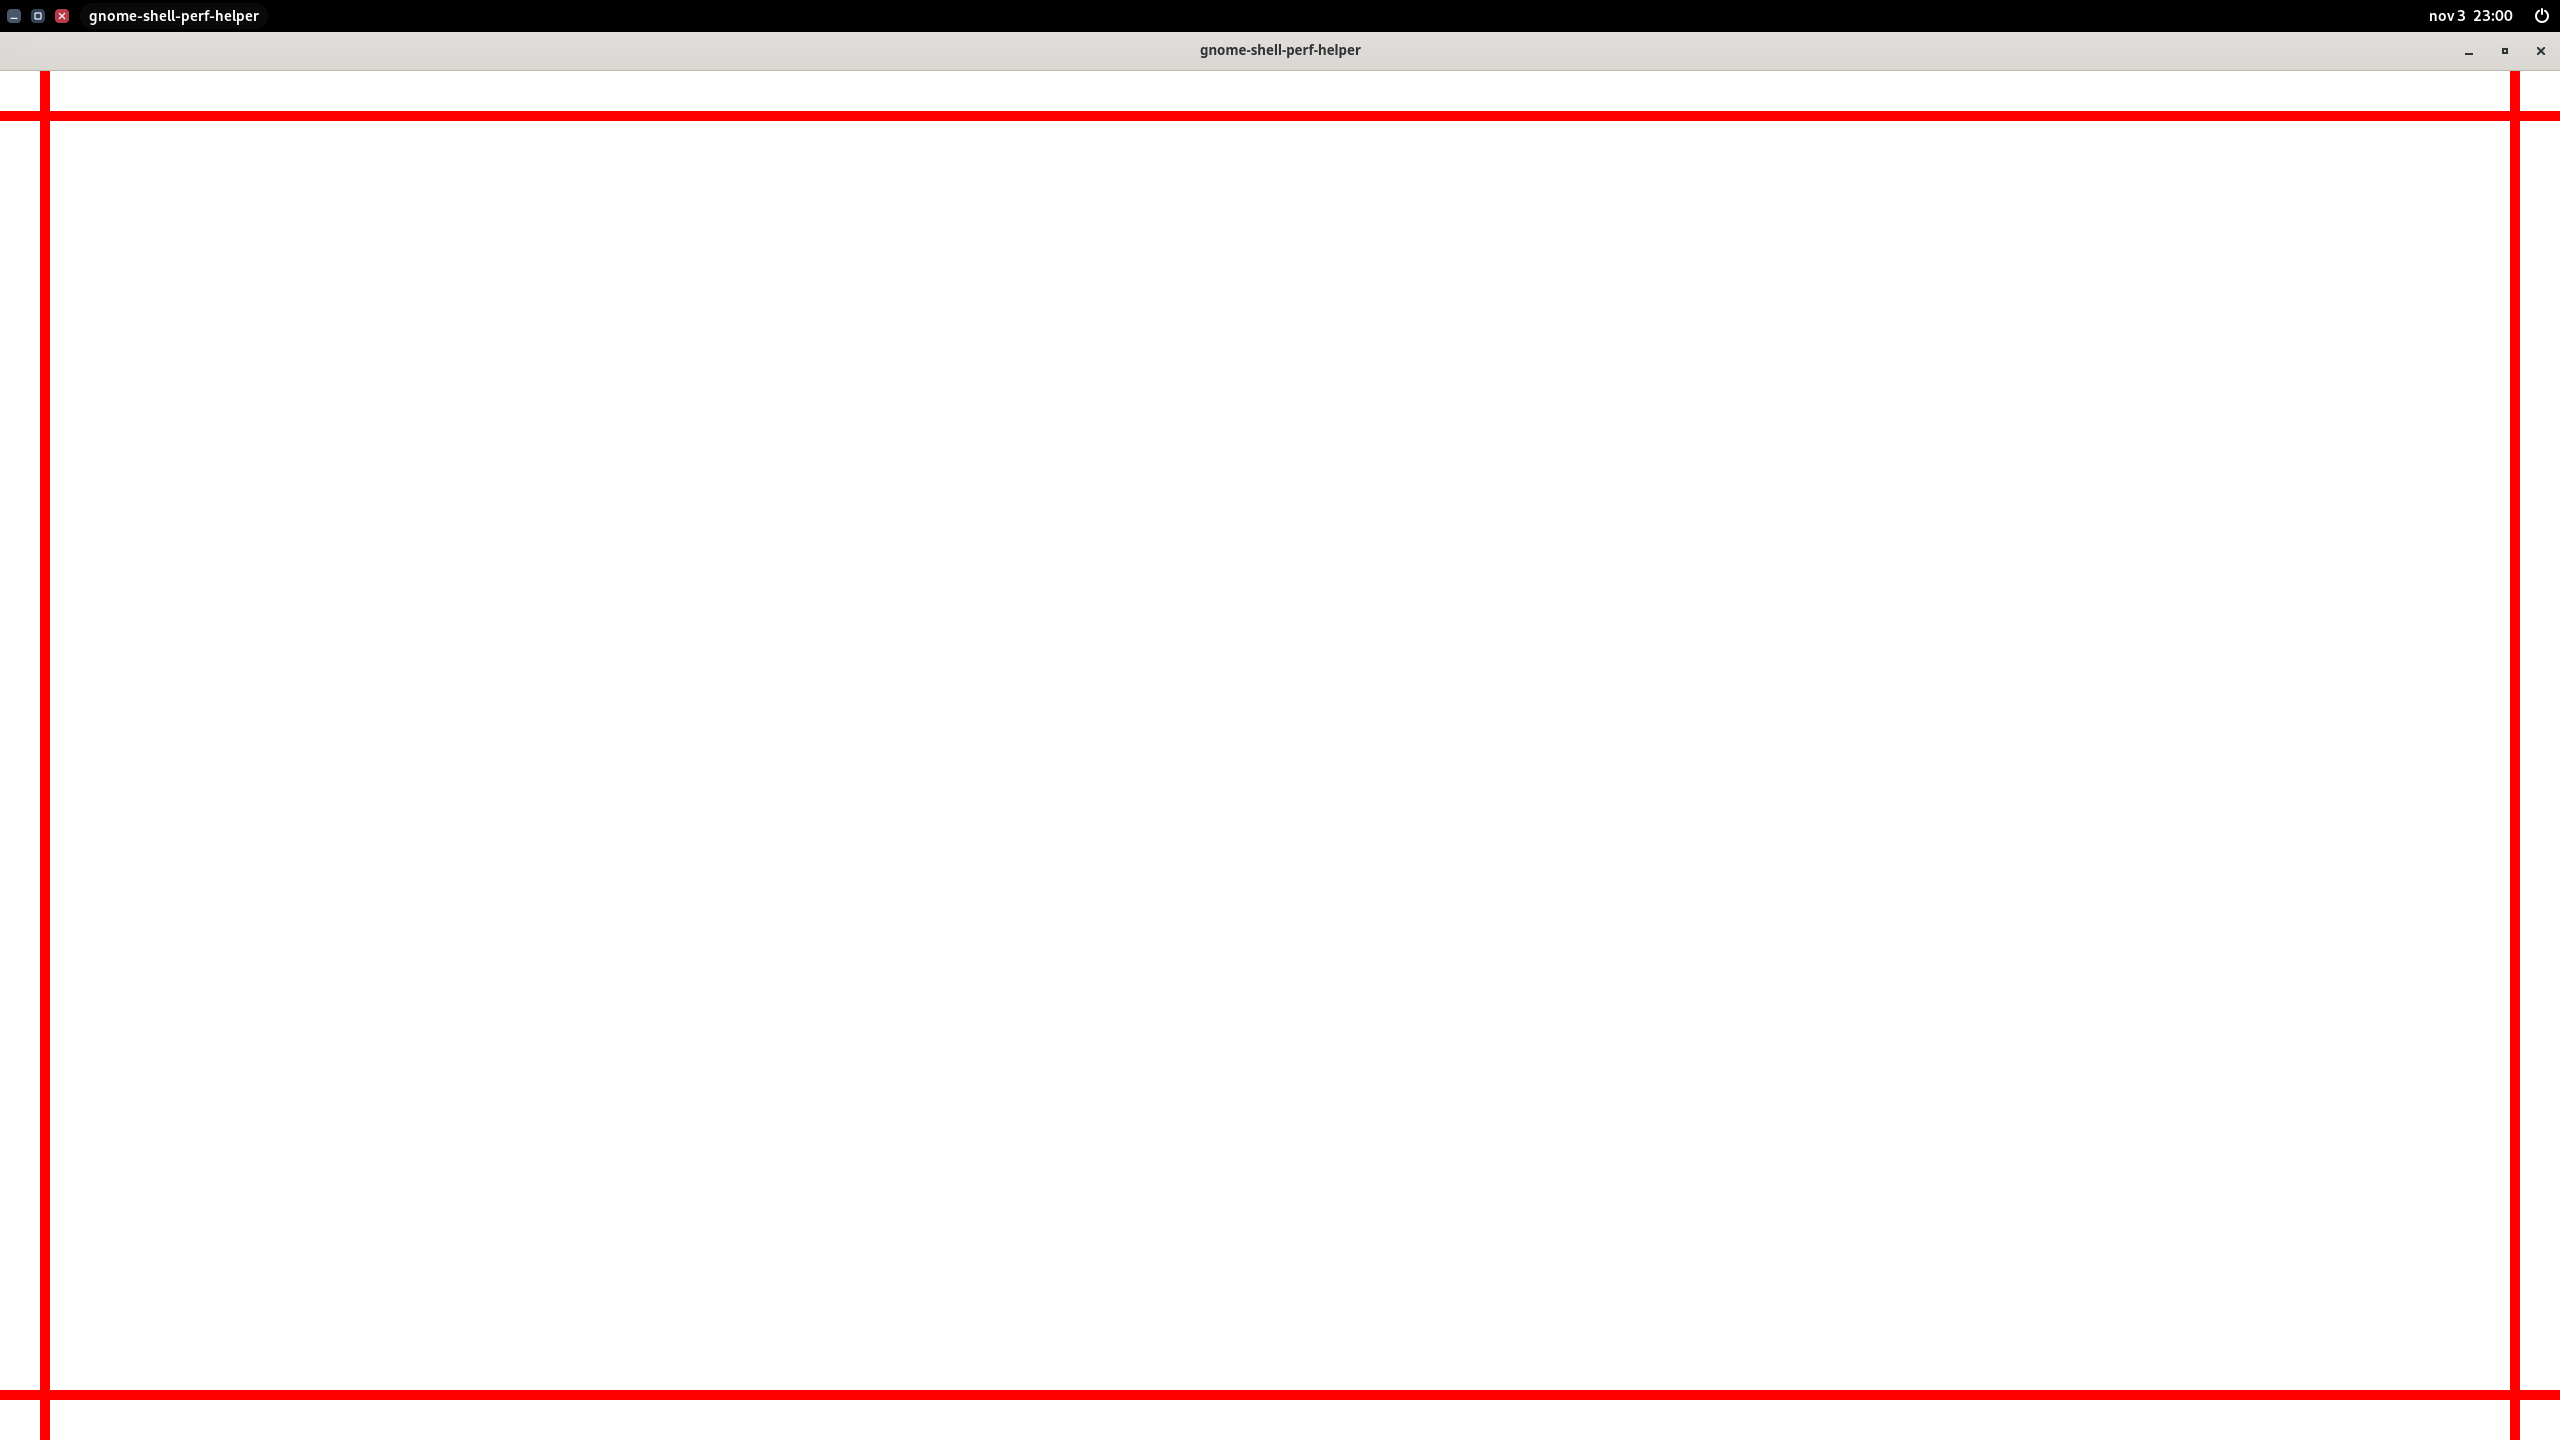
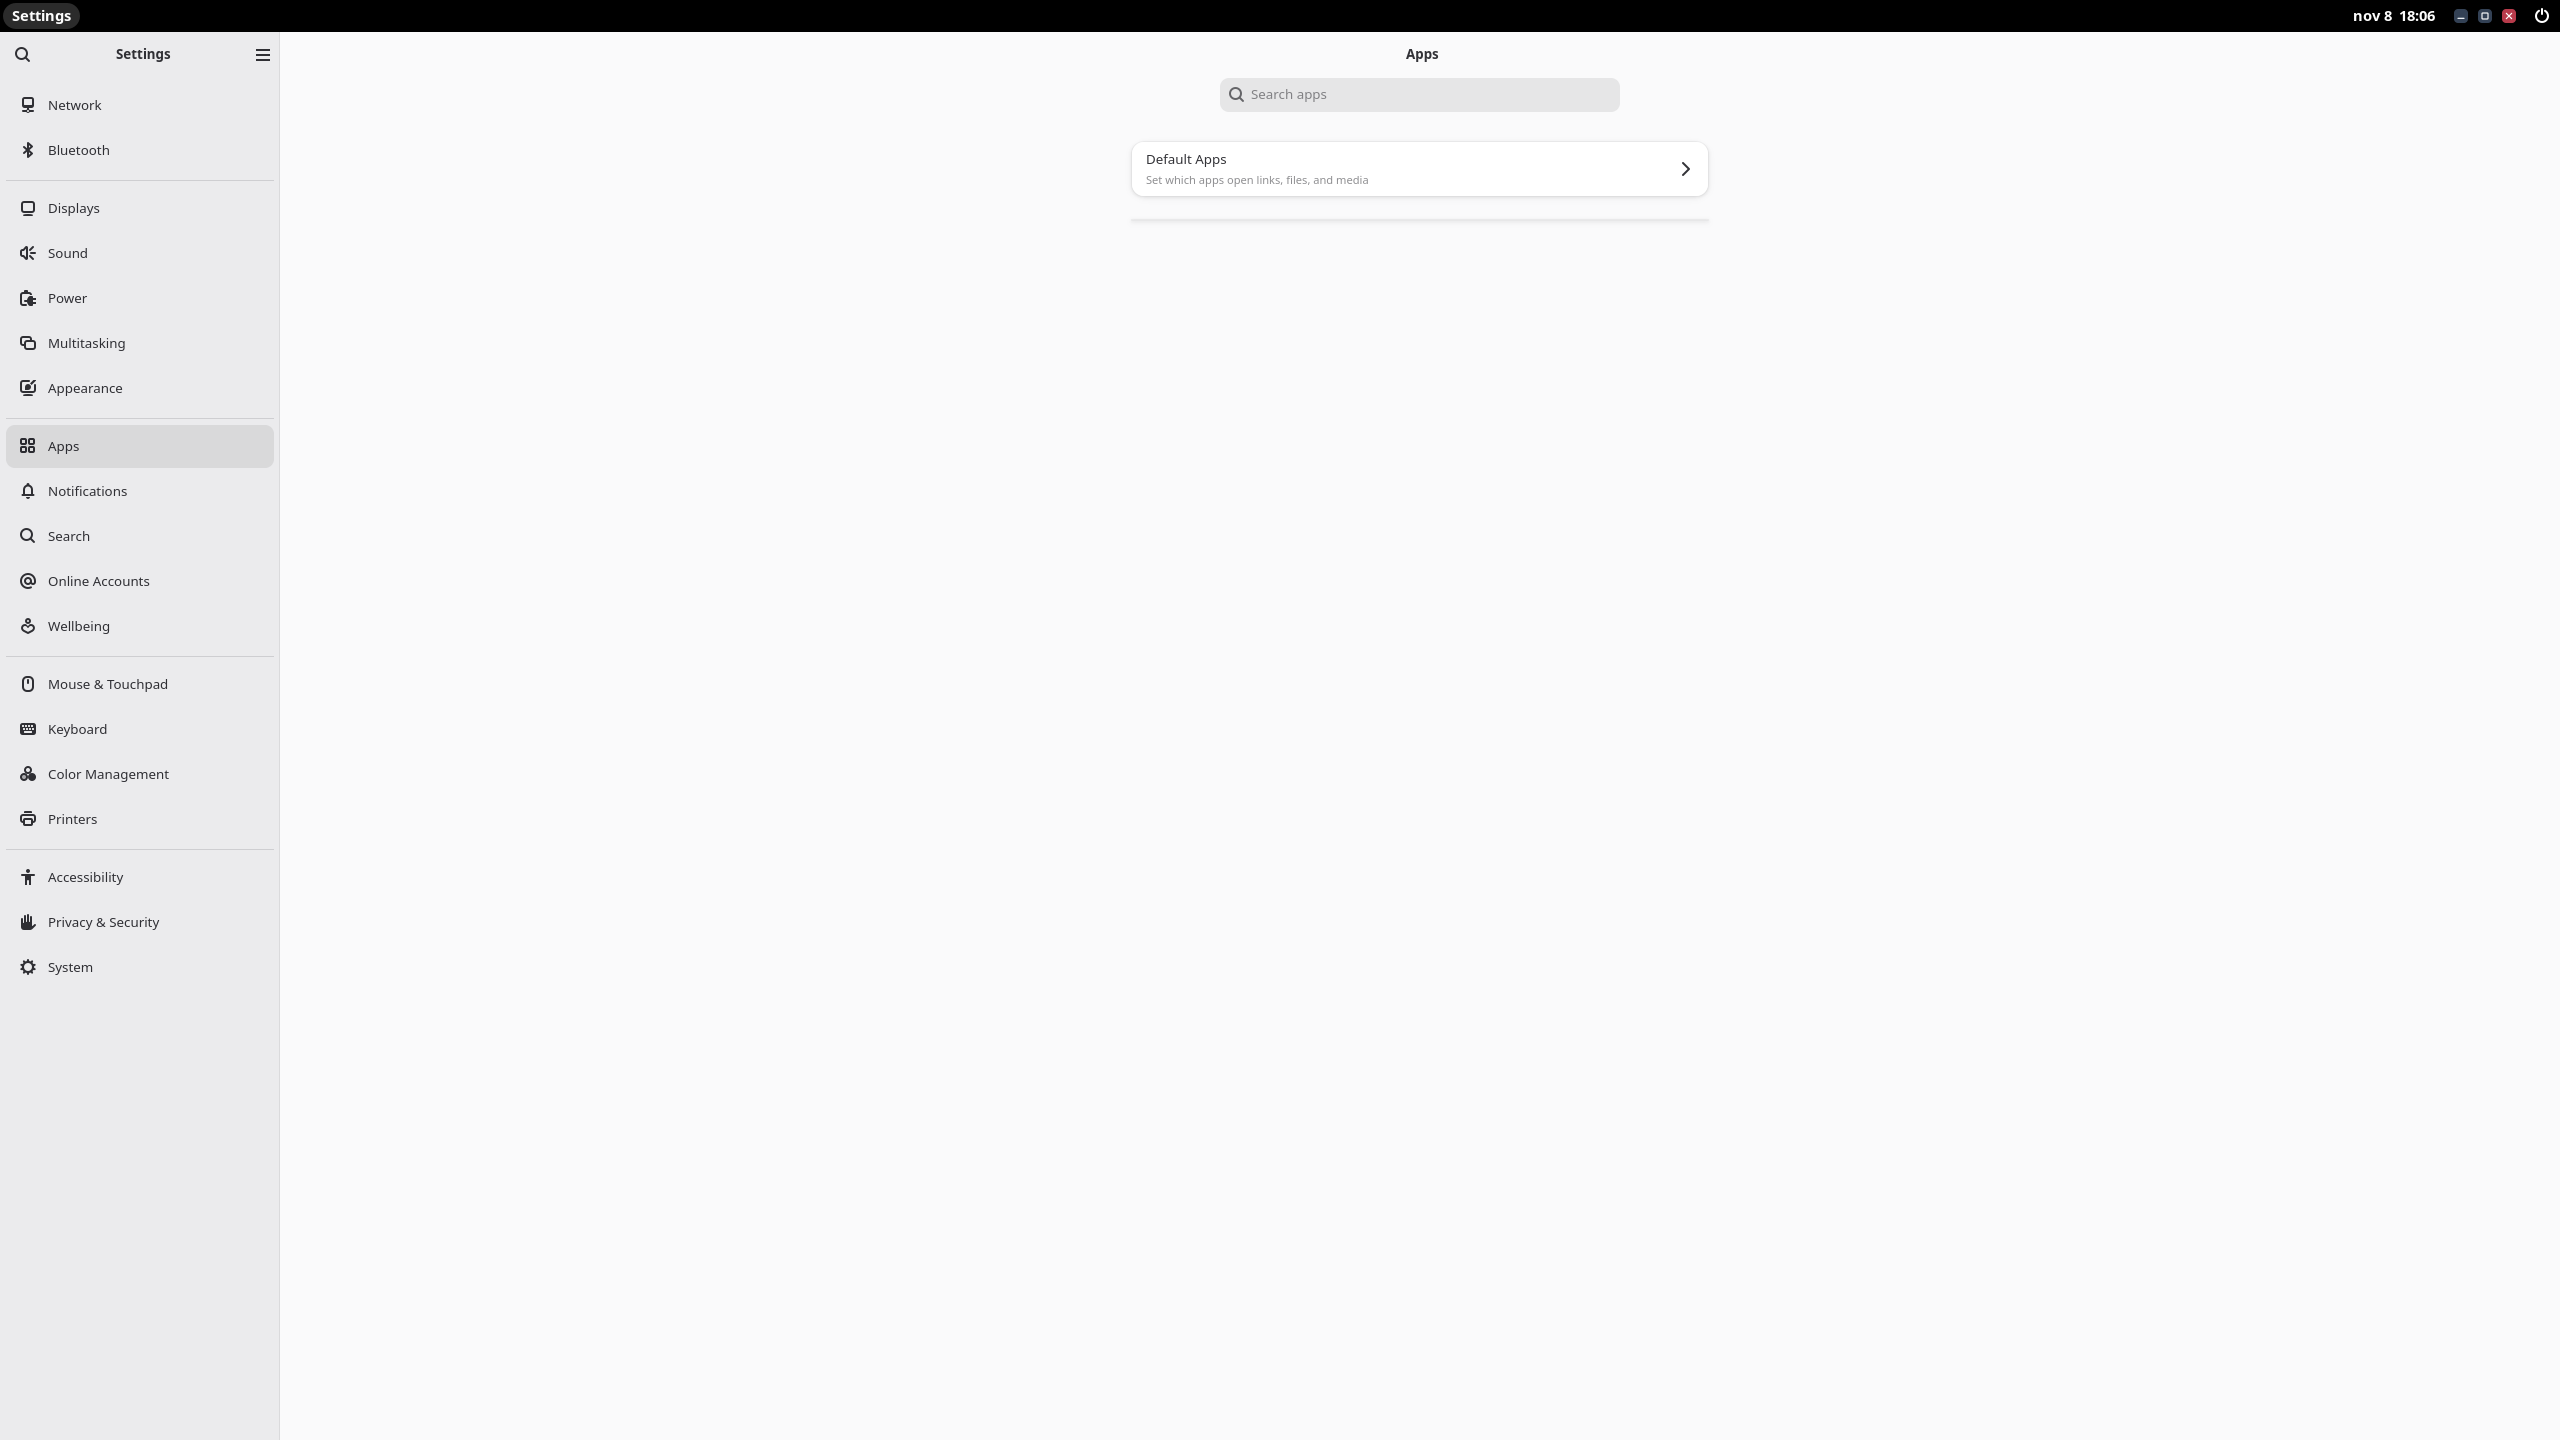
Replace test-client screenshots with native Apps capture

Changed region(s): [[0.0, 0.0, 1.0, 1.0]]

diff --git a/docs/asset-provenance.md b/docs/asset-provenance.md
@@ -108,18 +108,28 @@ names are attribution rather than fork settings namespaces.
 
 ## Native fork captures
 
-The current root PNGs were captured on 2026-11-03 in an isolated GNOME Shell
-50.6 session after the complete native journey passed with the cleared artwork.
-The desktop shows the native performance-test client and the new default panel
-controls; the preferences capture shows the actual installed fork. They contain
-no active-user desktop data or mockup.
+The current root PNGs were captured on 2026-11-08 in an isolated GNOME Shell
+51.0 session. The desktop shows the official GNOME Settings application on its
+Apps page (`gnome-control-center applications`), with Unite Next's window title
+and controls in the top panel. The preferences capture shows the actual installed
+fork. Native `Shell.Screenshot` output is published unchanged.
+
+The session used disposable settings, private buses and the existing GNOME 51.0
+image. Its window-button layout matched GTK's right-hand layout; the fork's
+titlebar policy was `maximized`, primary-monitor restriction was off, and panel
+titles and controls were enabled. Capture automation in a disposable source copy
+opened the real Settings application instead of the performance-test client,
+waited for its painted frame and closed it after capture. The capture journey
+completed with no unexpected diagnostics or remaining descendants. This records
+image provenance; the unchanged installation ZIP retains its separate canonical
+GNOME 50/51 acceptance at source revision `fc7c941046bf0db8bd1152c32ccafd78d5cf516f`.
 
 The capture input installation ZIP SHA-256 is
[1 lines of base64/hex data omitted]
-not the ZIP-container digest of a later CI build. The exact CI delivery ZIP
-receives its own source and native acceptance.
[1 lines of base64/hex data omitted]
+the accepted EGO artifact from CI run `41775272457`. Only presentation PNGs and
+their documentation changed; the submitted runtime package remains identical.
 
 | Capture | Dimensions | SHA-256 |
 | --- | --- | --- |
[4 lines of base64/hex data omitted]

diff --git a/README.md b/README.md
@@ -4,9 +4,9 @@ Unite Next is an independent fork of [Unite Shell](https://github.com/hardpixel/
 
 The code, releases and issue tracker are public. This fork is independently maintained and is not endorsed by the upstream project. EGO submission preparation does not imply approval by extensions.gnome.org.
 
-![Unite Next in an isolated GNOME 50 session](screenshot.png)
+![Unite Next with GNOME Settings open to Apps in an isolated GNOME 51 session](screenshot.png)
 
-Native acceptance session with the GNOME performance-test client.
+GNOME Settings on the Apps page, with Unite Next's window title and controls in the top panel.
 
 ![Installed Unite Next preferences](settings.png)
 
